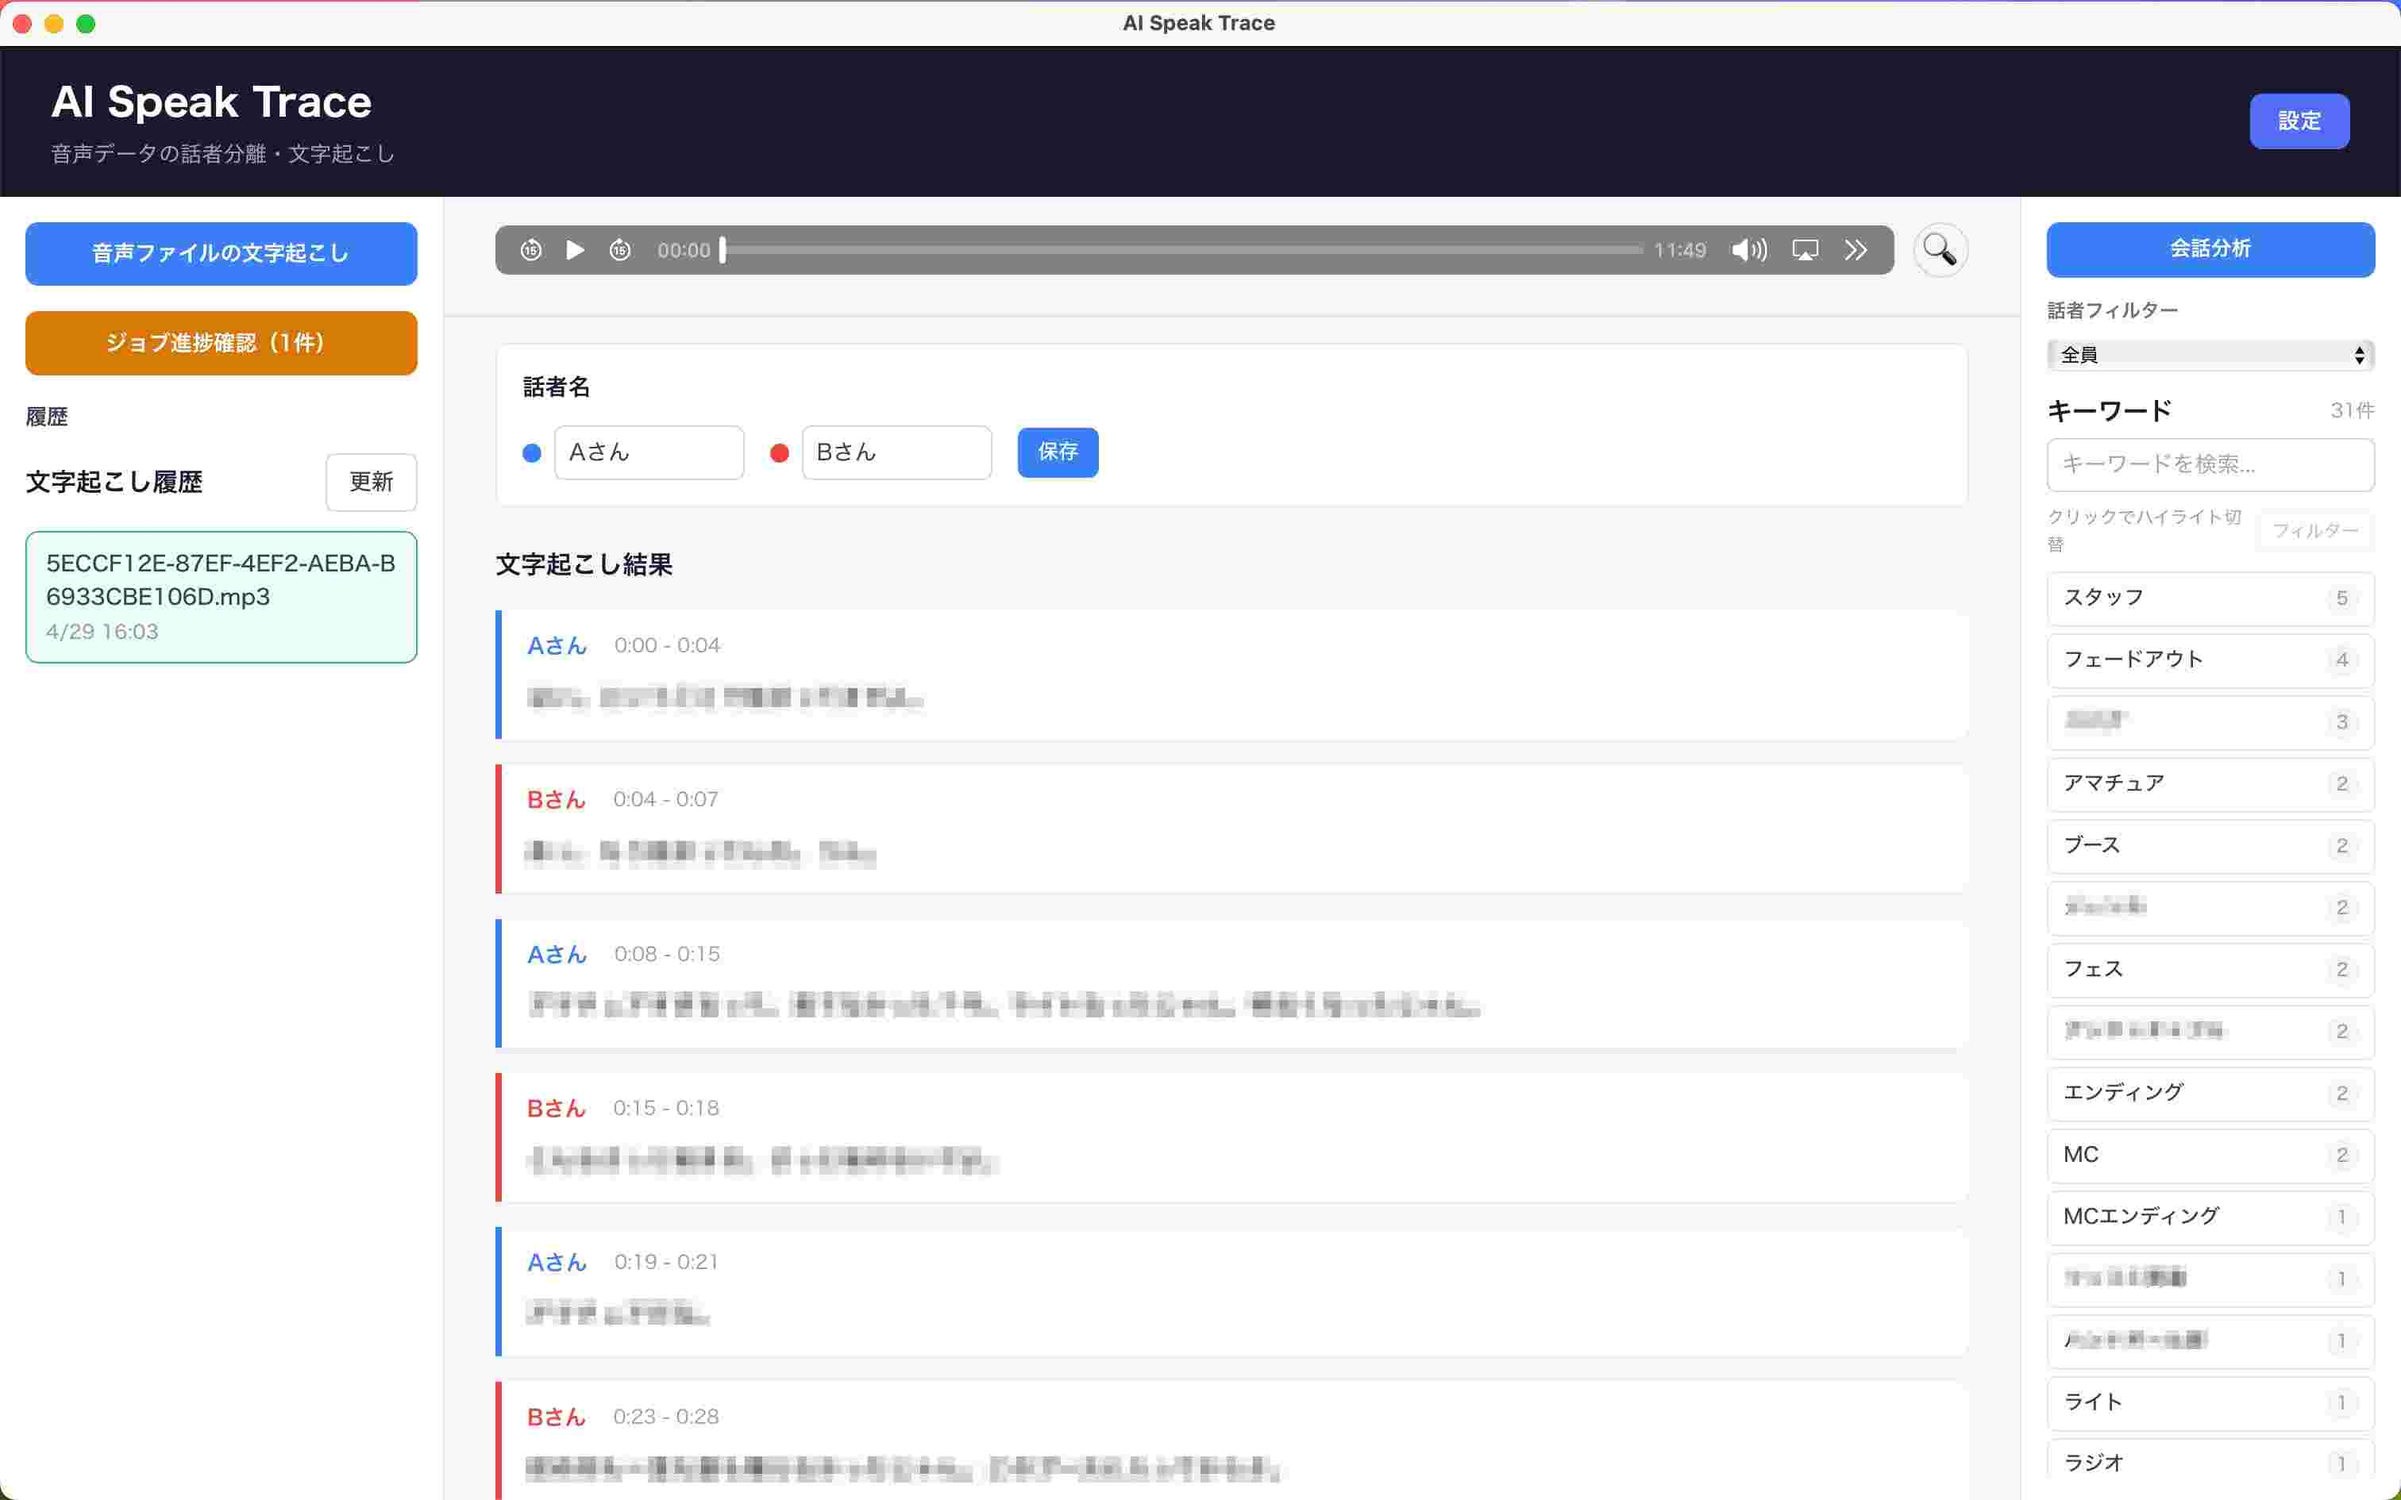
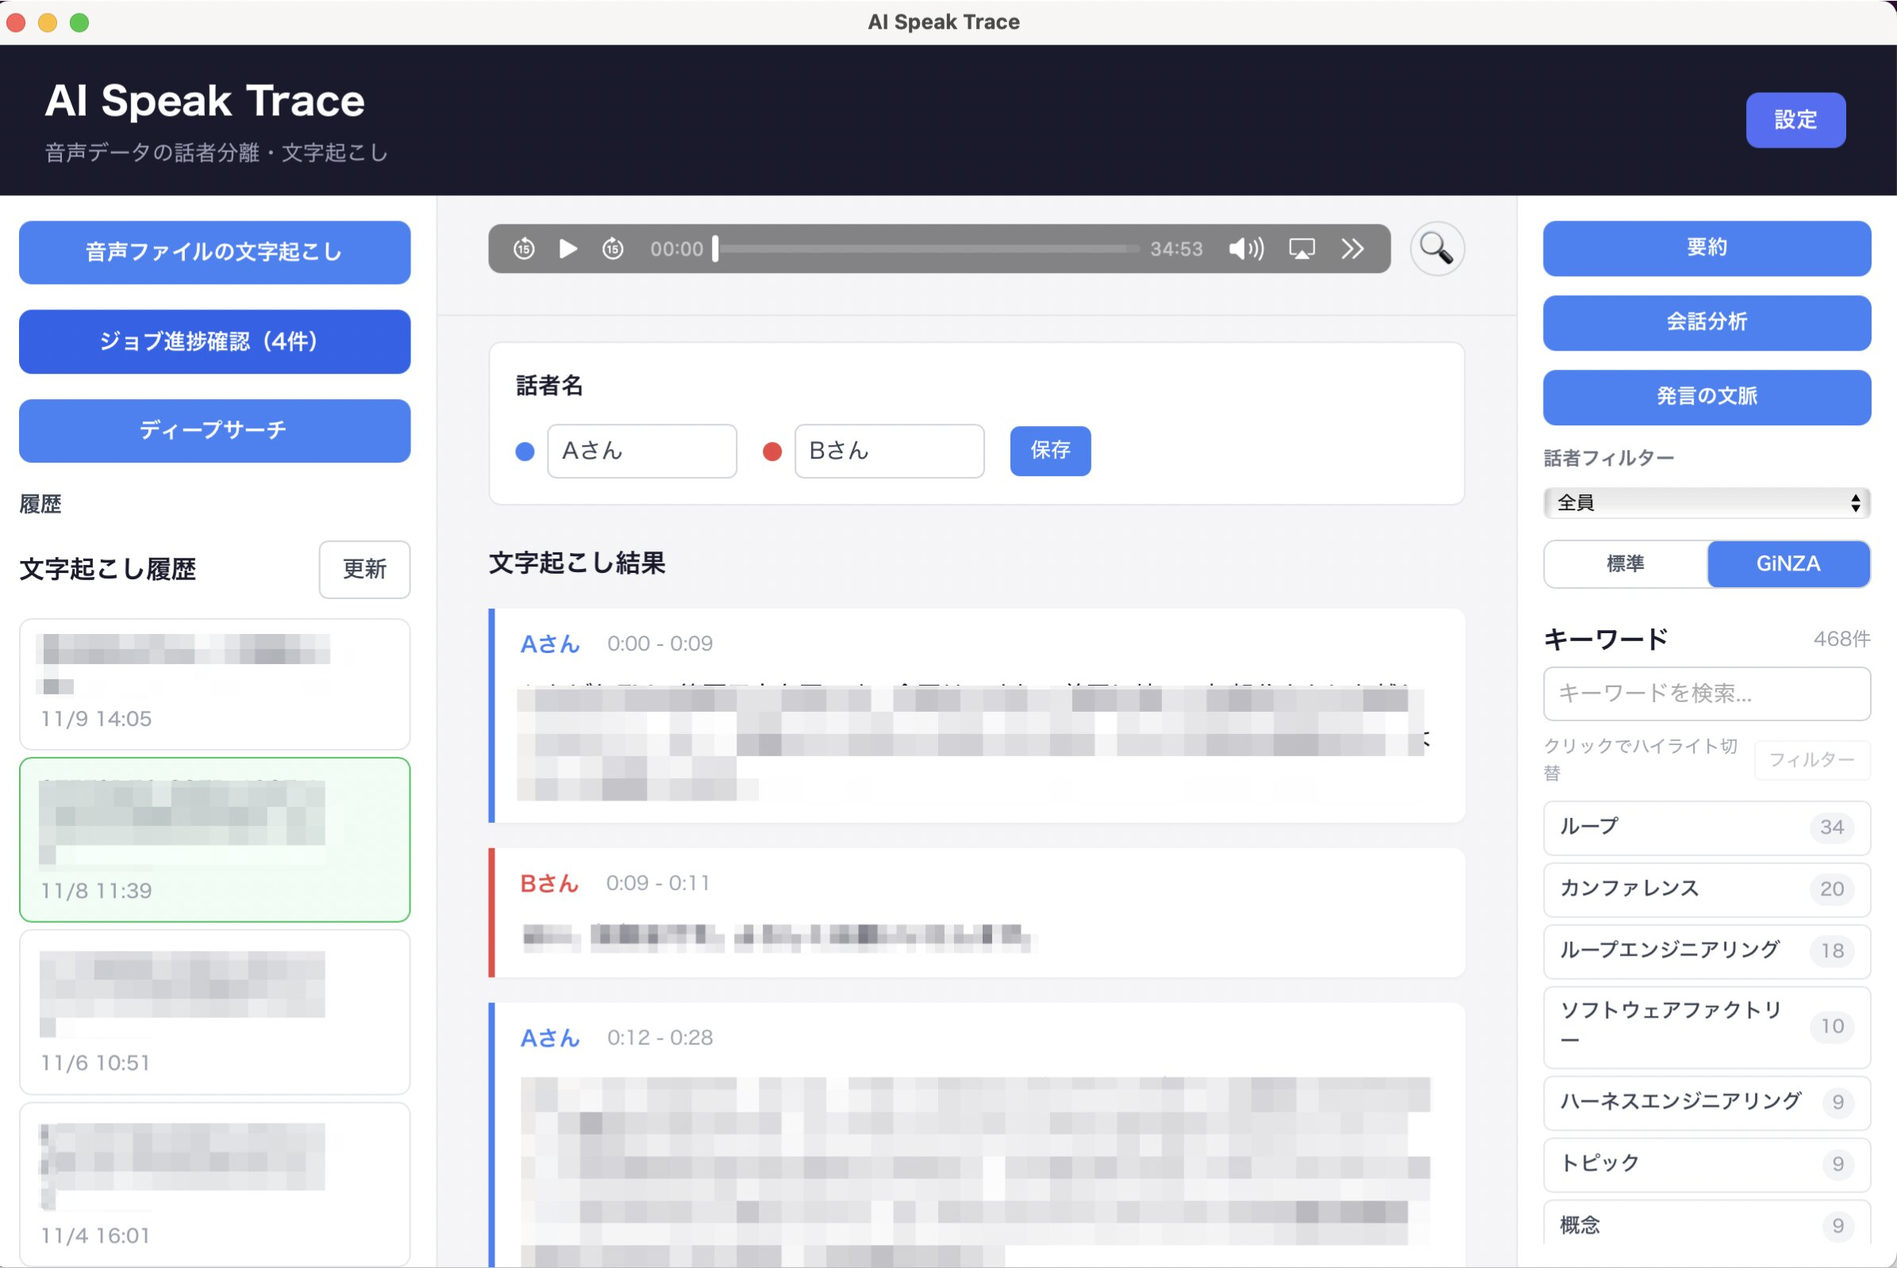
docs: README に最近の機能と安全のための仕組みを書き、スクリーンショットを新しくする
- できること: Podcast の取り込み・話者名の変更・ジョブの再開・音声の再生・GiNZA（ベータ）・誤りを報告を足す
- 動作環境: 文字起こしだけなら ElevenLabs のキーだけで使えること、AI 分析の ON/OFF、GiNZA のダウンロードを書く
- 安全のための仕組み: v0.8.3〜v0.8.5 の対策を短く書く
- ドキュメントの表に code-signing.md を足す
- usage.md の「中断中のジョブ」を画面どおり「ジョブ進捗確認」に直す

diff --git a/README.md b/README.md
@@ -7,15 +7,22 @@
 ## できること
 
 - 話者分離と日本語の文字起こし（ElevenLabs Scribe v2）
-- 話者・キーワードでの発話の絞り込み
+  - macOS の Podcast アプリでダウンロードしたエピソードも、そのまま文字起こしできます
+  - 話者名（最初は「Aさん」「Bさん」）は後から変えられます
+  - 止まった文字起こしは「ジョブ進捗確認」から途中で再開できます
+- 音声の再生と、再生位置の発話への移動（発話や単語をクリックすると、その位置から再生）
+- 話者・キーワードでの発話の絞り込み（キーワードの抽出は「標準」と「GiNZA（ベータ）」を切り替えられます）
 - 要約・会話分析・発言の文脈（Claude API）
-- ディープサーチ：会話に出てきた用語を、Web の公式情報で調べて解説
+- ディープサーチ：会話に出てきた用語を、Web の公式情報で調べて解説（根拠を確認できなかった文は表示しません）
 - 個人情報チェック：Claude に送る前に、会話の個人情報を伏せる（Amazon Bedrock Guardrails）
+- 誤りを報告：AI の結果に誤りがあれば、この Mac にメモを残せます（外部には送りません）
 
 ## 動作環境
 
 - macOS（Apple シリコン）。配布する DMG は Apple シリコン（arm64）向けだけです
-- 文字起こしには ElevenLabs の API キー、AI 分析にはさらに Anthropic の API キーと AWS（Amazon Bedrock Guardrails）が必要です
+- 文字起こしだけなら、ElevenLabs の API キーがあれば使えます
+- 要約・会話分析・発言の文脈・ディープサーチ（AI 分析）は、設定で「AI 分析を使う」を ON にし、Anthropic の API キーと AWS（Amazon Bedrock Guardrails）を設定すると使えます
+- GiNZA のキーワード抽出（ベータ）は、初めて使うときに約 500MB をダウンロードします（DMG には含みません）
 
 ## はじめかた
 
@@ -24,6 +31,15 @@
 3. 音声ファイルを選んで文字起こしする → [使い方](docs/users/usage.md)
 
 会話の音声や文字起こしは、外部のAIサービス（ElevenLabs・Anthropic・AWS）に送って処理します。使う前に [PRIVACY.md](PRIVACY.md) を確認してください。
+
+## 安全のための仕組み
+
+- 画面に出す AI の回答は無害にしてから表示し、CSP で読み込めるものを絞っています
+- バックエンド（sidecar）の API は、アプリの画面からしか呼べません
+- リリース版では Web インスペクタを開けません
+- 保存先の外を指す ID・ファイル名では、読み書き・削除をしません
+
+問題を見つけたときは [SECURITY.md](SECURITY.md) の手順で報告してください。
 
 ## ドキュメント
 
@@ -35,6 +51,7 @@
 | 外部に送るデータ・保存するデータ・削除方法 | [PRIVACY.md](PRIVACY.md) |
 | セキュリティ上の問題の報告 | [SECURITY.md](SECURITY.md) |
 | 開発環境・ビルド・アーキテクチャ | [docs/developers/README.md](docs/developers/README.md) |
+| macOS のコード署名・公証 | [docs/developers/code-signing.md](docs/developers/code-signing.md) |
 | ディープサーチの仕組み | [docs/developers/deep-search.md](docs/developers/deep-search.md) |
 | AI に動作確認を頼む | [docs/developers/ai-testing.md](docs/developers/ai-testing.md) |
 | バックエンド・フロントエンド | [backend/README.md](backend/README.md)・[frontend/README.md](frontend/README.md) |

diff --git a/docs/users/usage.md b/docs/users/usage.md
@@ -11,7 +11,7 @@
 5. 音声を再生・停止し、🔍ボタンで現在の再生位置に該当する発話へ自動スクロールする
 6. 発話のタイムスタンプや単語をクリックすると、その位置から音声を再生します
 
-文字起こしが途中で止まった場合は、左サイドバーの「中断中のジョブ」から対象のジョブを選び、「途中から再開する」をクリックします。完了済みのチャンクはスキップされます。
+文字起こしが途中で止まった場合は、左サイドバーの「ジョブ進捗確認」から対象のジョブを選び、「途中から再開する」をクリックします。完了済みのチャンクはスキップされます。
 
 ## 2. 話者フィルター
 
